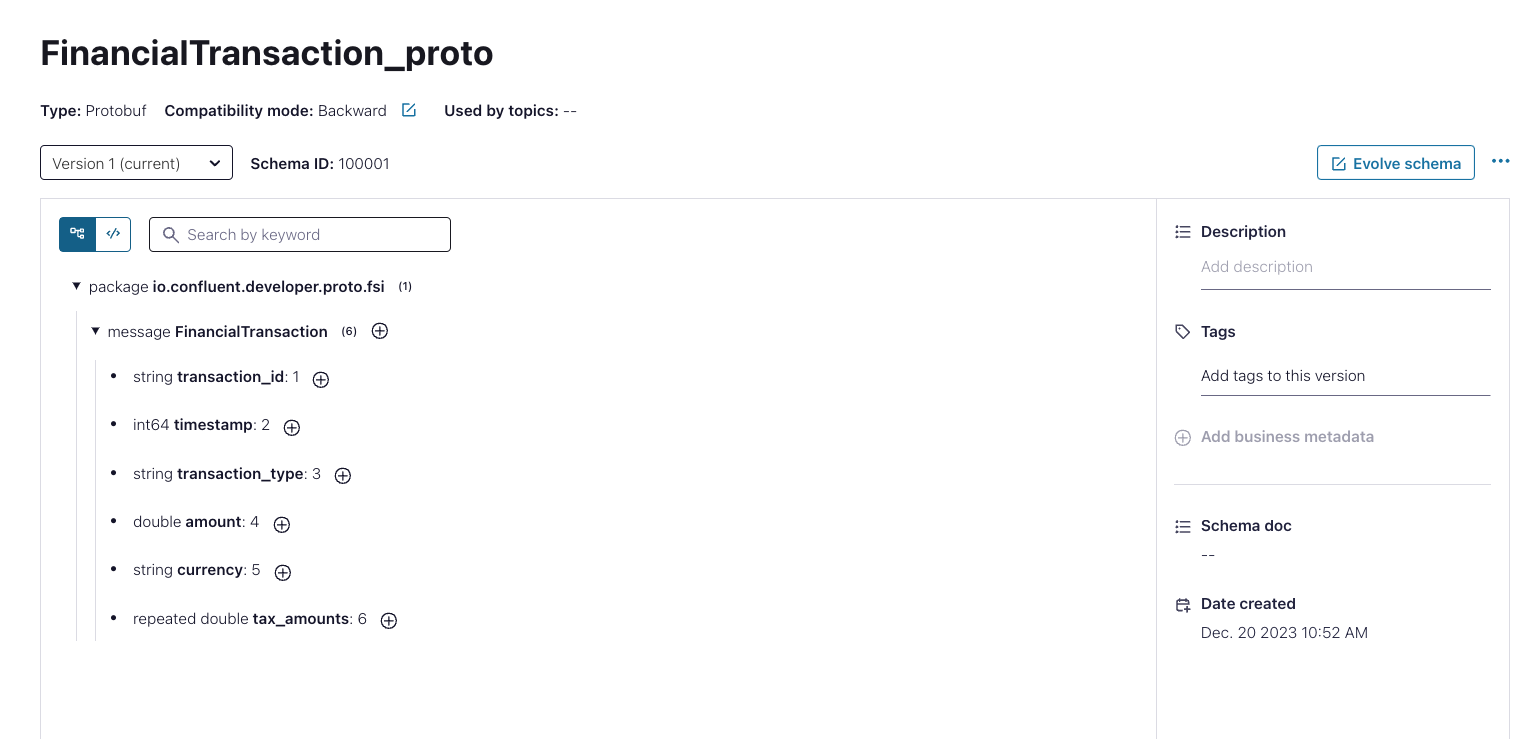
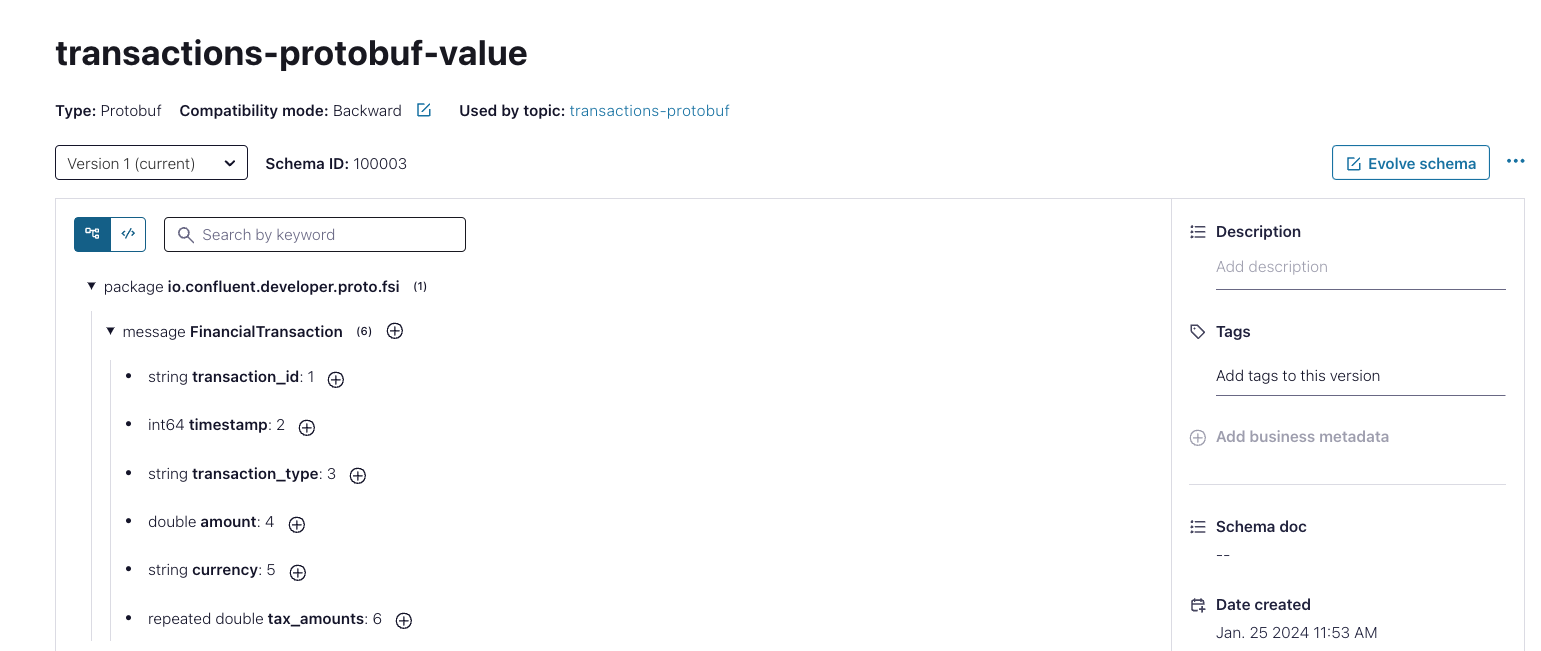
Completed protobuf collection example and fix images changes

diff --git a/protobuf/collection/src/test/java/io/confluent/developer/proto/fsi/FinancialTransactionTest.java b/protobuf/collection/src/test/java/io/confluent/developer/proto/fsi/FinancialTransactionTest.java
@@ -1,57 +1,155 @@
 package io.confluent.developer.proto.fsi;
 
-import com.google.protobuf.InvalidProtocolBufferException;
-import org.junit.jupiter.api.Test;
-import com.google.protobuf.Timestamp;
-import java.time.Instant;
-import java.util.Arrays;
 import io.confluent.developer.proto.fsi.FinancialTransactionProto.FinancialTransaction;
+import io.confluent.kafka.serializers.AbstractKafkaSchemaSerDeConfig;
+import io.confluent.kafka.serializers.protobuf.KafkaProtobufDeserializer;
+import io.confluent.kafka.serializers.protobuf.KafkaProtobufDeserializerConfig;
+import io.confluent.kafka.serializers.protobuf.KafkaProtobufSerializer;
+import org.apache.kafka.clients.admin.AdminClient;
+import org.apache.kafka.clients.admin.NewTopic;
+import org.apache.kafka.clients.consumer.ConsumerConfig;
+import org.apache.kafka.clients.consumer.ConsumerRecord;
+import org.apache.kafka.clients.consumer.ConsumerRecords;
+import org.apache.kafka.clients.consumer.KafkaConsumer;
+import org.apache.kafka.clients.producer.KafkaProducer;
+import org.apache.kafka.clients.producer.ProducerConfig;
+import org.apache.kafka.clients.producer.ProducerRecord;
+import org.apache.kafka.clients.producer.RecordMetadata;
+import org.apache.kafka.common.config.SaslConfigs;
+import org.apache.kafka.common.errors.TopicExistsException;
+import org.apache.kafka.common.serialization.StringDeserializer;
+import org.apache.kafka.common.serialization.StringSerializer;
+import org.junit.jupiter.api.Test;
 
-import static org.junit.jupiter.api.Assertions.assertArrayEquals;
+import java.io.IOException;
+import java.nio.file.Path;
+import java.time.Duration;
+import java.time.Instant;
+import java.util.*;
+import java.util.concurrent.ExecutionException;
+
+import static java.nio.file.Files.newInputStream;
 import static org.junit.jupiter.api.Assertions.assertEquals;
 
 public class FinancialTransactionTest {
 
+    private static final String TOPIC = "transactions-protobuf";
+
     @Test
-    public void testCreateTransaction() {
-        Instant time = Instant.now();
-        long transactionTime = Timestamp.newBuilder().setSeconds(time.getEpochSecond())
-                .setNanos(time.getNano()).build().getSeconds();
+    public void testCreateTransaction() throws IOException {
 
-        // Create a FinancialTransaction message
-        FinancialTransaction transaction = FinancialTransaction.newBuilder()
-                .setTransactionId("12345")
-                .setTimestamp(transactionTime)
-                .setTransactionType("deposit")
-                .setAmount(100.00)
-                .setCurrency("USD")
-                .addAllTaxAmounts(Arrays.asList(2.50, 3.50, 4.50))
-                .build();
+        Properties schemaRegistryProperties = new Properties();
+        schemaRegistryProperties.load(
+                newInputStream(Path.of(System.getProperty("user.dir") + "/../../build-environment/src/main/resources/schema_registry_values.properties")));
 
-        // Verify that the message is properly constructed
-        assertEquals(transaction.getTransactionId(), "12345");
-        assertEquals(transaction.getTimestamp(), transactionTime);
-        assertEquals(transaction.getTransactionType(), "deposit");
-        assertEquals(transaction.getAmount(), 100.00);
-        assertEquals(transaction.getCurrency(), "USD");
-        assertEquals(transaction.getTaxAmountsCount(), 3);
+        Properties kafkaClusterProperties = new Properties();
+        kafkaClusterProperties.load(
+                newInputStream(Path.of(System.getProperty("user.dir") + "/../../build-environment/src/main/resources/kafka_cluster_values.properties")));
 
-        // Serialize and deserialize the message
-        byte[] serializedMessage = transaction.toByteArray();
-        FinancialTransaction deserializedTransaction;
-        try {
-            deserializedTransaction = FinancialTransaction.parseFrom(serializedMessage);
-        } catch (InvalidProtocolBufferException e) {
-            throw new RuntimeException("Exception during transaction deserialization", e);
+        String producerSaslJaasConfig = "org.apache.kafka.common.security.plain.PlainLoginModule required username='%s' password='%s';".formatted(kafkaClusterProperties.getProperty("api_key"), kafkaClusterProperties.getProperty("api_secret"));
+        String bootstrapServers = kafkaClusterProperties.getProperty("endpoint");
+
+        Properties propsProducer = new Properties();
+        propsProducer.put(ProducerConfig.KEY_SERIALIZER_CLASS_CONFIG, StringSerializer.class);
+        propsProducer.put(ProducerConfig.VALUE_SERIALIZER_CLASS_CONFIG, KafkaProtobufSerializer.class);
+        propsProducer.put(ProducerConfig.ACKS_CONFIG, "all");
+        propsProducer.put(ProducerConfig.RETRIES_CONFIG, 0);
+
+        // Confluent Schema Registry for Java
+        propsProducer.put("basic.auth.credentials.source", "USER_INFO");
+        propsProducer.put("schema.registry.basic.auth.user.info", schemaRegistryProperties.get("api_key") + ":" + schemaRegistryProperties.get("api_secret"));
+        propsProducer.put("schema.registry.url", schemaRegistryProperties.get("endpoint_url"));
+        propsProducer.put(AbstractKafkaSchemaSerDeConfig.AUTO_REGISTER_SCHEMAS, false);
+
+        // Basic Confluent Cloud Connectivity
+        propsProducer.put(ProducerConfig.BOOTSTRAP_SERVERS_CONFIG, bootstrapServers);
+        propsProducer.put(SaslConfigs.SASL_MECHANISM, "PLAIN");
+        propsProducer.put(SaslConfigs.SASL_JAAS_CONFIG, producerSaslJaasConfig);
+        propsProducer.put("security.protocol", "SASL_SSL");
+
+        try (AdminClient adminClient = AdminClient.create(propsProducer)) {
+            NewTopic newTopic = new NewTopic(TOPIC, 3, (short) 3);
+            adminClient.createTopics(Collections.singleton(newTopic)).all().get();
+            System.out.println("Topic created successfully");
+        } catch (InterruptedException | ExecutionException e) {
+            if (e.getCause() instanceof TopicExistsException) {
+                System.out.println("Topic already exists");
+            } else {
+                System.out.println("Error creating topic");
+                throw new RuntimeException(e);
+            }
         }
 
-        // Verify that the deserialized message is equal to the original message
-        assertArrayEquals(serializedMessage, deserializedTransaction.toByteArray());
-        assertEquals(deserializedTransaction.getTransactionId(), transaction.getTransactionId());
-        assertEquals(deserializedTransaction.getTimestamp(), transaction.getTimestamp());
-        assertEquals(deserializedTransaction.getTransactionType(), transaction.getTransactionType());
-        assertEquals(deserializedTransaction.getAmount(), transaction.getAmount());
-        assertEquals(deserializedTransaction.getCurrency(), transaction.getCurrency());
-        assertEquals(deserializedTransaction.getTaxAmountsCount(), transaction.getTaxAmountsCount());
+        final FinancialTransaction writeFinancialTransaction;
+        try (KafkaProducer<String, FinancialTransaction> producer = new KafkaProducer<>(propsProducer)) {
+            long transactionTime = Instant.now().toEpochMilli();
+            writeFinancialTransaction =
+                    FinancialTransaction.newBuilder().setTransactionId(UUID.randomUUID().toString())
+                            .setTimestamp(transactionTime).setTransactionType("deposit")
+                            .setAmount(generateRandomCurrencyValues())
+                            .setCurrency("USD")
+                            .addAllTaxAmounts(Arrays.asList(2.50d, 3.50d, 4.50d))
+                            .build();
+            final ProducerRecord<String, FinancialTransaction> record = new ProducerRecord<>(TOPIC, writeFinancialTransaction.getTransactionId(), writeFinancialTransaction);
+            try {
+                RecordMetadata metadata = producer.send(record).get();
+                System.out.printf("Message sent to partition %d, offset %d\n", metadata.partition(), metadata.offset());
+            } catch (Exception e) {
+                throw new RuntimeException(e);
+            }
+            producer.flush();
+        }
+
+        Properties propsConsumer = new Properties();
+        propsConsumer.put(ConsumerConfig.KEY_DESERIALIZER_CLASS_CONFIG, StringDeserializer.class);
+        propsConsumer.put(ConsumerConfig.VALUE_DESERIALIZER_CLASS_CONFIG, KafkaProtobufDeserializer.class);
+        propsConsumer.put(ConsumerConfig.GROUP_ID_CONFIG, "test-financial-transactions");
+        propsConsumer.put(ConsumerConfig.ENABLE_AUTO_COMMIT_CONFIG, "true");
+        propsConsumer.put(ConsumerConfig.AUTO_COMMIT_INTERVAL_MS_CONFIG, "1000");
+        propsConsumer.put(ConsumerConfig.AUTO_OFFSET_RESET_CONFIG, "earliest");
+        propsConsumer.put(KafkaProtobufDeserializerConfig.SPECIFIC_PROTOBUF_VALUE_TYPE, FinancialTransaction.class);
+
+
+        // Confluent Schema Registry for Java
+        propsConsumer.put("basic.auth.credentials.source", "USER_INFO");
+        propsConsumer.put("schema.registry.basic.auth.user.info", schemaRegistryProperties.get("api_key") + ":" + schemaRegistryProperties.get("api_secret"));
+        propsConsumer.put("schema.registry.url", schemaRegistryProperties.get("endpoint_url"));
+        propsConsumer.put(AbstractKafkaSchemaSerDeConfig.AUTO_REGISTER_SCHEMAS, false);
+
+        // Basic Confluent Cloud Connectivity
+        propsConsumer.put(ProducerConfig.BOOTSTRAP_SERVERS_CONFIG, bootstrapServers);
+        propsConsumer.put(SaslConfigs.SASL_MECHANISM, "PLAIN");
+        propsConsumer.put(SaslConfigs.SASL_JAAS_CONFIG, producerSaslJaasConfig);
+        propsConsumer.put("security.protocol", "SASL_SSL");
+
+        // Create the topic needed for the test
+        FinancialTransaction readFinancialTransaction = null;
+        try (KafkaConsumer<String, FinancialTransaction> consumer = new KafkaConsumer<>(propsConsumer)) {
+            consumer.subscribe(Collections.singletonList(TOPIC));
+            final ConsumerRecords<String, FinancialTransaction> records = consumer.poll(Duration.ofMillis(1000));
+            for (ConsumerRecord<String, FinancialTransaction> record : records) {
+                readFinancialTransaction = record.value();
+                System.out.printf("Message read %s ", readFinancialTransaction);
+            }
+        }
+
+        assertEquals(Objects.requireNonNull(readFinancialTransaction).getTransactionId(), writeFinancialTransaction.getTransactionId());
+        assertEquals(readFinancialTransaction.getTimestamp(), writeFinancialTransaction.getTimestamp());
+        assertEquals(readFinancialTransaction.getTransactionType(), writeFinancialTransaction.getTransactionType());
+        assertEquals(readFinancialTransaction.getAmount(), writeFinancialTransaction.getAmount());
+        assertEquals(readFinancialTransaction.getCurrency(), writeFinancialTransaction.getCurrency());
+        assertEquals(Objects.requireNonNull(readFinancialTransaction).getTaxAmountsList().size(), writeFinancialTransaction.getTaxAmountsList().size());
+    }
+
+    /**
+     * Generates a random currency value between 0 and 100 USD.
+     *
+     * @return the random currency value rounded to the nearest integer
+     */
+    private double generateRandomCurrencyValues() {
+        Currency currency = Currency.getInstance("USD");
+        Random random = new Random();
+        double randomValue = 1 + (100 - 1) * random.nextDouble();
+        return Math.rint(randomValue * currency.getDefaultFractionDigits());
     }
 }
